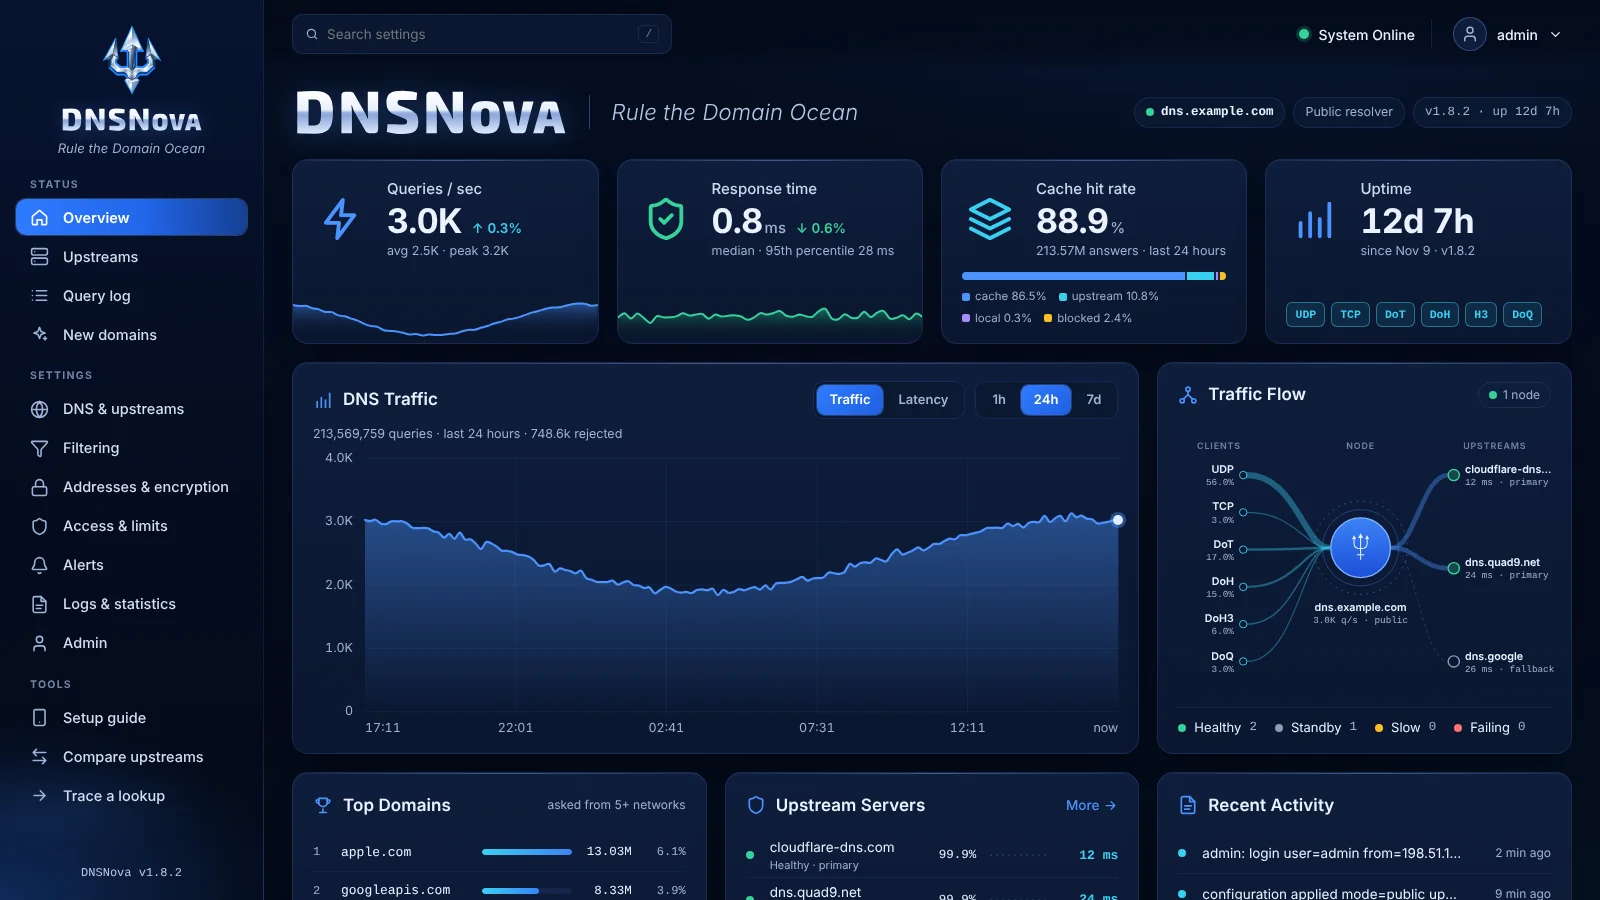
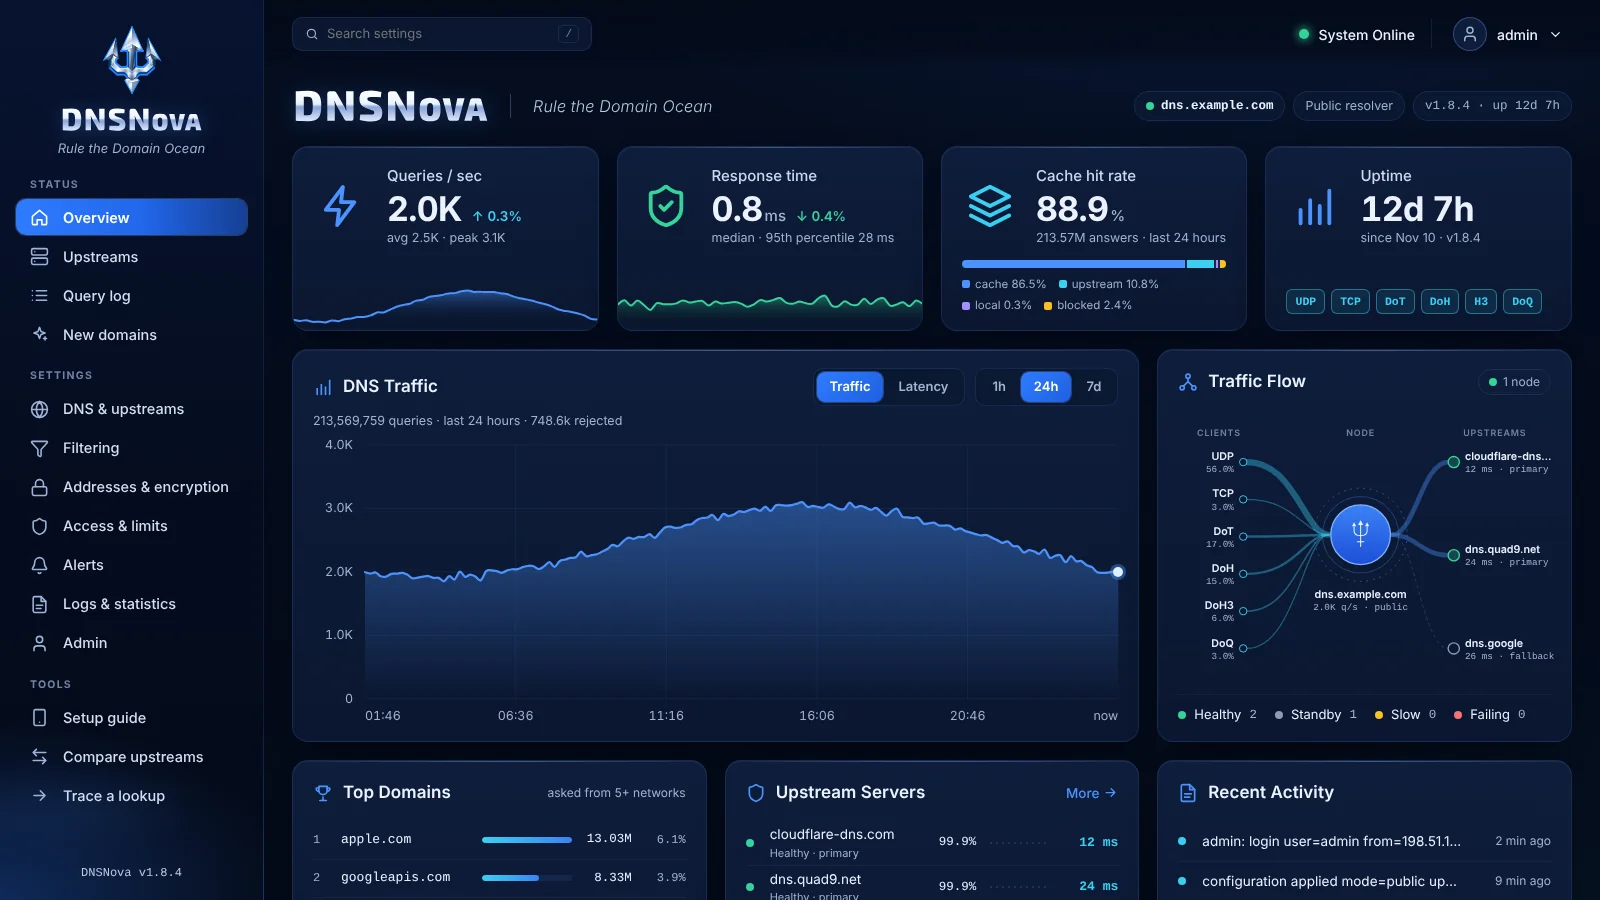
sync: dnsnova 2026-11-23 09:51

diff --git a/internal/admin/ui/app.css b/internal/admin/ui/app.css
@@ -155,13 +155,16 @@ h2 { margin: 0; font-size: 15px; font-weight: 600; }
 .topbar { position: sticky; top: 0; z-index: 20; display: flex; align-items: center; gap: 16px; min-height: 68px; margin: 0 -28px; padding: 12px 28px;
   background: linear-gradient(180deg, rgba(4, 10, 24, 0.92) 0%, rgba(4, 10, 24, 0.65) 75%, rgba(4, 10, 24, 0) 100%); backdrop-filter: blur(8px); }
 :root[data-theme="light"] .topbar { background: linear-gradient(180deg, rgba(243, 247, 253, 0.95) 0%, rgba(243, 247, 253, 0.7) 75%, rgba(243, 247, 253, 0) 100%); }
-.topbar .search { flex: 0 1 380px; }
+.topbar .search { flex: 0 1 300px; }
 .topbar .grow { flex: 1; }
 .sysstate { display: inline-flex; align-items: center; gap: 9px; font-size: 14px; font-weight: 500; white-space: nowrap; }
 .sysstate .dot { width: 10px; height: 10px; border-radius: 5px; }
-.sysstate .dot.ok { box-shadow: 0 0 0 3px rgba(52, 211, 153, 0.2); }
-.sysstate .dot.warn { box-shadow: 0 0 0 3px rgba(251, 191, 36, 0.2); }
-.sysstate .dot.err { box-shadow: 0 0 0 3px rgba(248, 113, 113, 0.2); }
+.sysstate .dot.ok { box-shadow: 0 0 8px 2px rgba(52, 211, 153, 0.6); }
+.sysstate .dot.warn { box-shadow: 0 0 8px 2px rgba(251, 191, 36, 0.55); }
+.sysstate .dot.err { box-shadow: 0 0 8px 2px rgba(248, 113, 113, 0.6); }
+:root[data-theme="light"] .sysstate .dot.ok { box-shadow: 0 0 0 3px rgba(52, 211, 153, 0.2); }
+:root[data-theme="light"] .sysstate .dot.warn { box-shadow: 0 0 0 3px rgba(251, 191, 36, 0.2); }
+:root[data-theme="light"] .sysstate .dot.err { box-shadow: 0 0 0 3px rgba(248, 113, 113, 0.2); }
 .vsep { width: 1px; height: 30px; background: var(--border); }
 .usermenu { position: relative; }
 .userbtn { display: inline-flex; align-items: center; gap: 10px; padding: 4px 8px 4px 4px; border-radius: 999px; border: 1px solid transparent; background: transparent; cursor: pointer; font-weight: 500; font-size: 14px; }
@@ -177,9 +180,9 @@ h2 { margin: 0; font-size: 15px; font-weight: 600; }
 
 /* search */
 .search { position: relative; }
-.search label { display: flex; align-items: center; gap: 8px; min-height: 40px; padding: 0 12px; border-radius: 10px; border: 1px solid var(--border); background: var(--surface); color: var(--muted); transition: border-color 150ms ease; }
+.search label { display: flex; align-items: center; gap: 8px; min-height: 34px; padding: 0 12px; border-radius: 10px; border: 1px solid var(--border); background: var(--surface); color: var(--muted); transition: border-color 150ms ease; }
 .search label:focus-within { border-color: var(--border-strong); }
-.search input { flex: 1; min-width: 0; border: 0; background: transparent; outline: none; font-size: 13.5px; }
+.search input { flex: 1; min-width: 0; border: 0; background: transparent; outline: none; font-size: 13px; }
 .search kbd { font-size: 11px; padding: 0 6px; border: 1px solid var(--border); border-radius: 5px; color: var(--faint); }
 .results { position: absolute; z-index: 40; top: 46px; left: 0; right: 0; background: var(--solid); border: 1px solid var(--border); border-radius: 12px; padding: 6px; max-height: 360px; overflow: auto; box-shadow: var(--shadow-pop); }
 .results button { display: block; width: 100%; text-align: left; border: 0; background: transparent; padding: 8px 10px; border-radius: 8px; cursor: pointer; }
@@ -190,10 +193,10 @@ h2 { margin: 0; font-size: 15px; font-weight: 600; }
 .pagehead { display: flex; flex-wrap: wrap; align-items: center; justify-content: space-between; gap: 12px; }
 .crumb { font-size: 12px; color: var(--muted); letter-spacing: 0.02em; margin-bottom: 2px; }
 .hero-head { display: flex; flex-wrap: wrap; align-items: center; gap: 14px 22px; padding: 2px 0 4px; }
-.hero-head .wordmark { font-size: 56px; filter: drop-shadow(0 2px 16px rgba(75, 147, 255, 0.28)); }
+.hero-head .wordmark { font-size: 40px; filter: drop-shadow(0 2px 12px rgba(75, 147, 255, 0.24)); }
 :root[data-theme="light"] .hero-head .wordmark { filter: none; }
-.hero-head .divider { width: 1px; height: 34px; background: var(--border-strong); }
-.hero-head .tagline { font-size: 22px; font-weight: 300; color: #b6c8e6; }
+.hero-head .divider { width: 1px; height: 24px; background: var(--border-strong); }
+.hero-head .tagline { font-size: 16px; font-weight: 300; color: #b6c8e6; }
 :root[data-theme="light"] .hero-head .tagline { color: var(--muted); }
 .hero-head .ident { margin-left: auto; display: flex; flex-wrap: wrap; align-items: center; justify-content: flex-end; gap: 8px; }
 .idchip { display: inline-flex; align-items: center; gap: 7px; padding: 5px 11px; border-radius: 999px; border: 1px solid var(--border); background: var(--surface); font-size: 12.5px; color: var(--muted); white-space: nowrap; }
@@ -704,6 +707,7 @@ details.adv[open] > summary::before { content: "▾ "; }
 @media (pointer: coarse) {
   input[type=text], input[type=password], input[type=email], input[type=number], input[type=search],
   input.mono, select, textarea, .search input, main .search input[type=search] { font-size: 16px; }
+  .search label { min-height: 40px; } /* room for a finger */
 }
 
 /* a left-aligned column right after a right-aligned one */

diff --git a/CHANGELOG.md b/CHANGELOG.md
@@ -4,6 +4,18 @@ All notable changes are listed here. Versions follow
 [Semantic Versioning](https://semver.org/). Security fixes are marked
 **Security**.
 
+## 1.8.4 (2026-11-23)
+
+- **A quieter top of the overview.** The DNSNova title was more than twice
+  the size of the logo beside it in the menu and larger than every figure
+  on the page; it is now 40 px instead of 56, the tagline 16 px instead of
+  22, and the settings search box 300 × 34 instead of 380 × 40 (40 high on
+  touch screens). On a laptop the server's name, mode and version now fit
+  beside the title, so the figures start a row higher. Phones are
+  unchanged.
+- **The state light glows** on the dark theme (green, amber or red), where
+  its pale ring looked dim; the light theme keeps the ring.
+
 ## 1.8.3 (2026-11-22)
 
 - **Injected answers are no longer taken for the network taking over port
